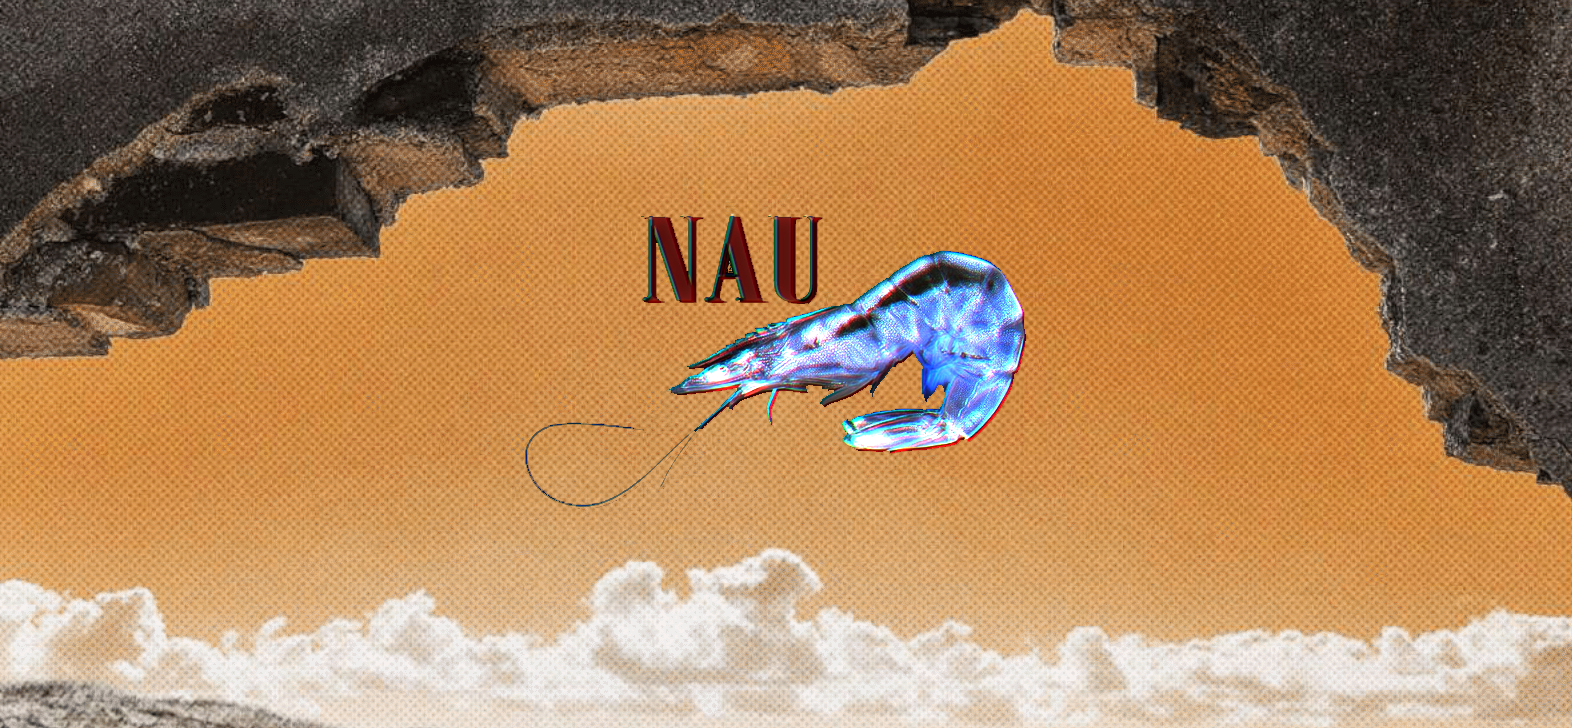
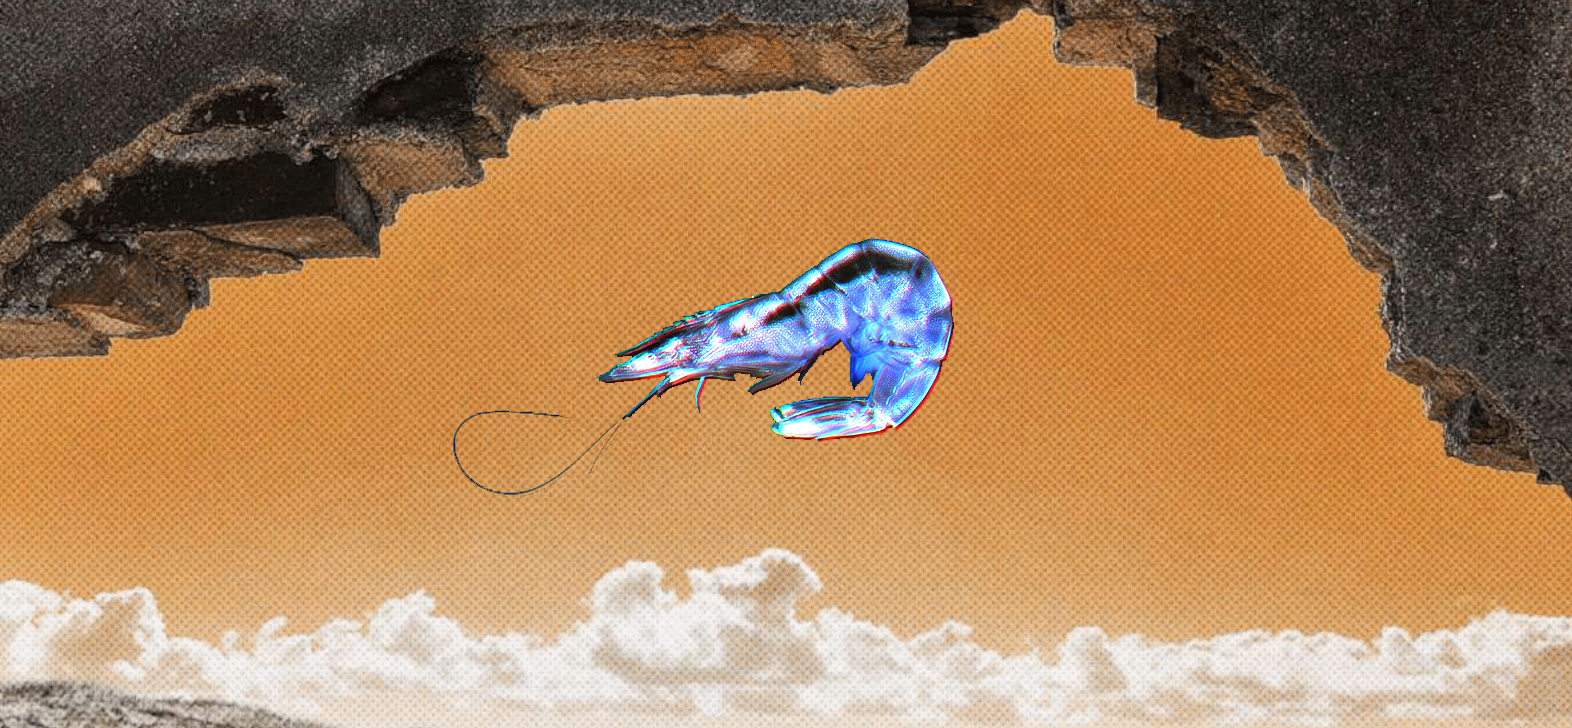
mudança do nome

diff --git a/frontend/src/pages/projetopampraieiro/index.js b/frontend/src/pages/projetopampraieiro/index.js
@@ -5,14 +5,14 @@ const Projetopampraieiro = () => {
         <main>
 
             {/*<!-- SEÇÃO PROJETO PAMPRAIEIRO -->*/}
-            <section className="bg-light py-5">
+            <section className="py-5">
                 <div className="container px-5 my-5 px-5">
                     <h2 style={{ marginBottom: "35px" }} className="display-4">PROJETO PAMPRAIEIRO</h2>
 
-                    <p className="lead text-justify">Lorem ipsum dolor sit, amet consectetur adipisicing elit. Nisi debitis, quis neque
+                    {/*<p className="lead text-justify">Lorem ipsum dolor sit, amet consectetur adipisicing elit. Nisi debitis, quis neque
                         perspiciatis quisquam fugit
                         voluptas nesciunt labore at vero? Illo atque quidem necessitatibus voluptates voluptate distinctio, est minima
-                        dignissimos.</p>
+    dignissimos.</p>*/}
 
                     <div className="videoresponsivo-embedcontainer">
                         <iframe
@@ -40,7 +40,7 @@ const Projetopampraieiro = () => {
                     </div>
 
 
-                    <p className="lead text-justify">Lorem ipsum dolor sit, amet consectetur adipisicing elit. Nisi debitis, quis neque
+                    {/*<p className="lead text-justify">Lorem ipsum dolor sit, amet consectetur adipisicing elit. Nisi debitis, quis neque
                         perspiciatis quisquam fugit
                         voluptas nesciunt labore at vero? Illo atque quidem necessitatibus voluptates voluptate distinctio, est minima
                         dignissimos.</p>
@@ -59,7 +59,7 @@ const Projetopampraieiro = () => {
                     <p className="lead text-justify">Lorem ipsum dolor sit, amet consectetur adipisicing elit. Nisi debitis, quis neque
                         perspiciatis quisquam fugit
                         voluptas nesciunt labore at vero? Illo atque quidem necessitatibus voluptates voluptate distinctio, est minima
-                        dignissimos.</p>
+dignissimos.</p>*/}
 
                 </div>
             </section>

diff --git a/frontend/src/pages/home/index.js b/frontend/src/pages/home/index.js
@@ -100,7 +100,7 @@ const Home = () => {
                                         <a
                                             className="btn btn-dark"
                                             target="_blank" rel="noreferrer"
-                                            href="https://www.instagram.com/nauproducoes/"
+                                            href="https://www.instagram.com/surproducoes/"
                                         >Acesse o site</a>
                                     </div>
                                 </div>
@@ -120,7 +120,7 @@ const Home = () => {
                                         <a
                                             className="btn btn-dark"
                                             target="_blank" rel="noreferrer"
-                                            href="https://www.instagram.com/nauproducoes/"
+                                            href="https://www.instagram.com/surproducoes/"
                                         >Acesse o site</a>
                                     </div>
                                 </div>
@@ -140,7 +140,7 @@ const Home = () => {
                                         <a
                                             className="btn btn-dark"
                                             target="_blank" rel="noreferrer"
-                                            href="https://www.instagram.com/nauproducoes/"
+                                            href="https://www.instagram.com/surproducoes/"
                                         >Acesse o site</a>
                                     </div>
                                 </div>

diff --git a/frontend/src/components/NavBar/index.js b/frontend/src/components/NavBar/index.js
@@ -10,9 +10,9 @@ const Navbar = () => {
         <nav className="navbar navbar-expand-lg navbar-light bg-light fixed-top">
             <div className="container">
                 <Link className="navbar-brand" to='/'>
-                    <img className='navbar-customlogo' src={camarao} alt="Nau Produções" />
+                    <img className='navbar-customlogo' src={camarao} alt="SUR Produções" />
                 </Link>
-                <Link className="navbar-brand" to='/'>NAU Produções</Link>
+                <Link className="navbar-brand" to='/'>SUR Produções</Link>
                 <button className="navbar-toggler" type="button" data-bs-toggle="collapse" data-bs-target="#navbarResponsive"
                     aria-controls="navbarResponsive" aria-expanded="false" aria-label="Toggle navigation">
                     <span className="navbar-toggler-icon"></span>

diff --git a/frontend/src/components/SocialBar/index.js b/frontend/src/components/SocialBar/index.js
@@ -21,12 +21,12 @@ const Socialbar = () => {
                 </a>
             </li>
             <li className="ms-3">
-                <a className="link-dark" target="_blank" rel="noreferrer" href="https://www.instagram.com/nauproducoes/">
+                <a className="link-dark" target="_blank" rel="noreferrer" href="https://www.instagram.com/surproducoes/">
                     <BsFacebook className='socialbar-redes'/>
                 </a>
             </li>
             <li className="ms-3">
-                <a className="link-dark" target="_blank" rel="noreferrer" href="https://www.instagram.com/nauproducoes/">
+                <a className="link-dark" target="_blank" rel="noreferrer" href="https://www.instagram.com/surproducoes/">
                     <BsInstagram className='socialbar-redes'/>
                 </a>
             </li>

diff --git a/frontend/src/pages/quemsomos/index.js b/frontend/src/pages/quemsomos/index.js
@@ -9,12 +9,12 @@ const Quemsomos = () => {
 
             {/*<!-- SEÇÃO QUEM SOMOS -->*/}
 
-            <section className="bg-light py-5">
+            <section className="py-5">
                 <div className="container px-5 my-5 px-5">
                     <h2 style={{ marginBottom: "35px" }} className="display-4">QUEM SOMOS</h2>
 
                     {/* <!-- TEXTO --> */}
-                    <p className="lead text-justify">"Nau Produções</p>
+                    <p className="lead text-justify">"Sur Produções</p>
                     <p className="lead text-justify">O que é</p>
                     <p className="lead text-justify">
                         Espaço digital para divulgação de trabalhos culturais e colaborativos realizados pela produtora e

diff --git a/frontend/src/pages/contato/index.js b/frontend/src/pages/contato/index.js
@@ -2,7 +2,7 @@ import './style.css';
 
 const Contato = () => {
     return (<>
-        <section className="bg-light py-5">
+        <section className="py-5">
             <div className="container px-5 my-5 px-5">
                 <div className="text-center mb-5">
                     <h2 className="display-4">CONTATO</h2>

diff --git a/frontend/src/pages/sucesso/index.js b/frontend/src/pages/sucesso/index.js
@@ -1,7 +1,7 @@
 const Sucesso = () => {
     return (<>
 
-        <section className="bg-light py-5">
+        <section className="py-5">
             <div className="container px-5 my-5 px-5">
                 <div className="row featurette">
                     <div className="col-md-7">

diff --git a/frontend/src/pages/portfolio/index.js b/frontend/src/pages/portfolio/index.js
@@ -1,7 +1,7 @@
 const Portfolio = (props) => {
 
     return (<>
-        <section class="bg-light py-5">
+        <section class="py-5">
             <div class="container px-5 my-5 px-5">
                 <div class="row featurette">
                     <div class="col-md-7">

diff --git a/frontend/src/pages/nossarede/index.js b/frontend/src/pages/nossarede/index.js
@@ -11,7 +11,7 @@ const Nossarede = () => {
 
             {/*<!-- SEÇÃO NOSSA REDE -->*/}
 
-            <section className="bg-light py-5">
+            <section className="py-5">
 
                 <div className="container px-5 my-5 px-5">
 
